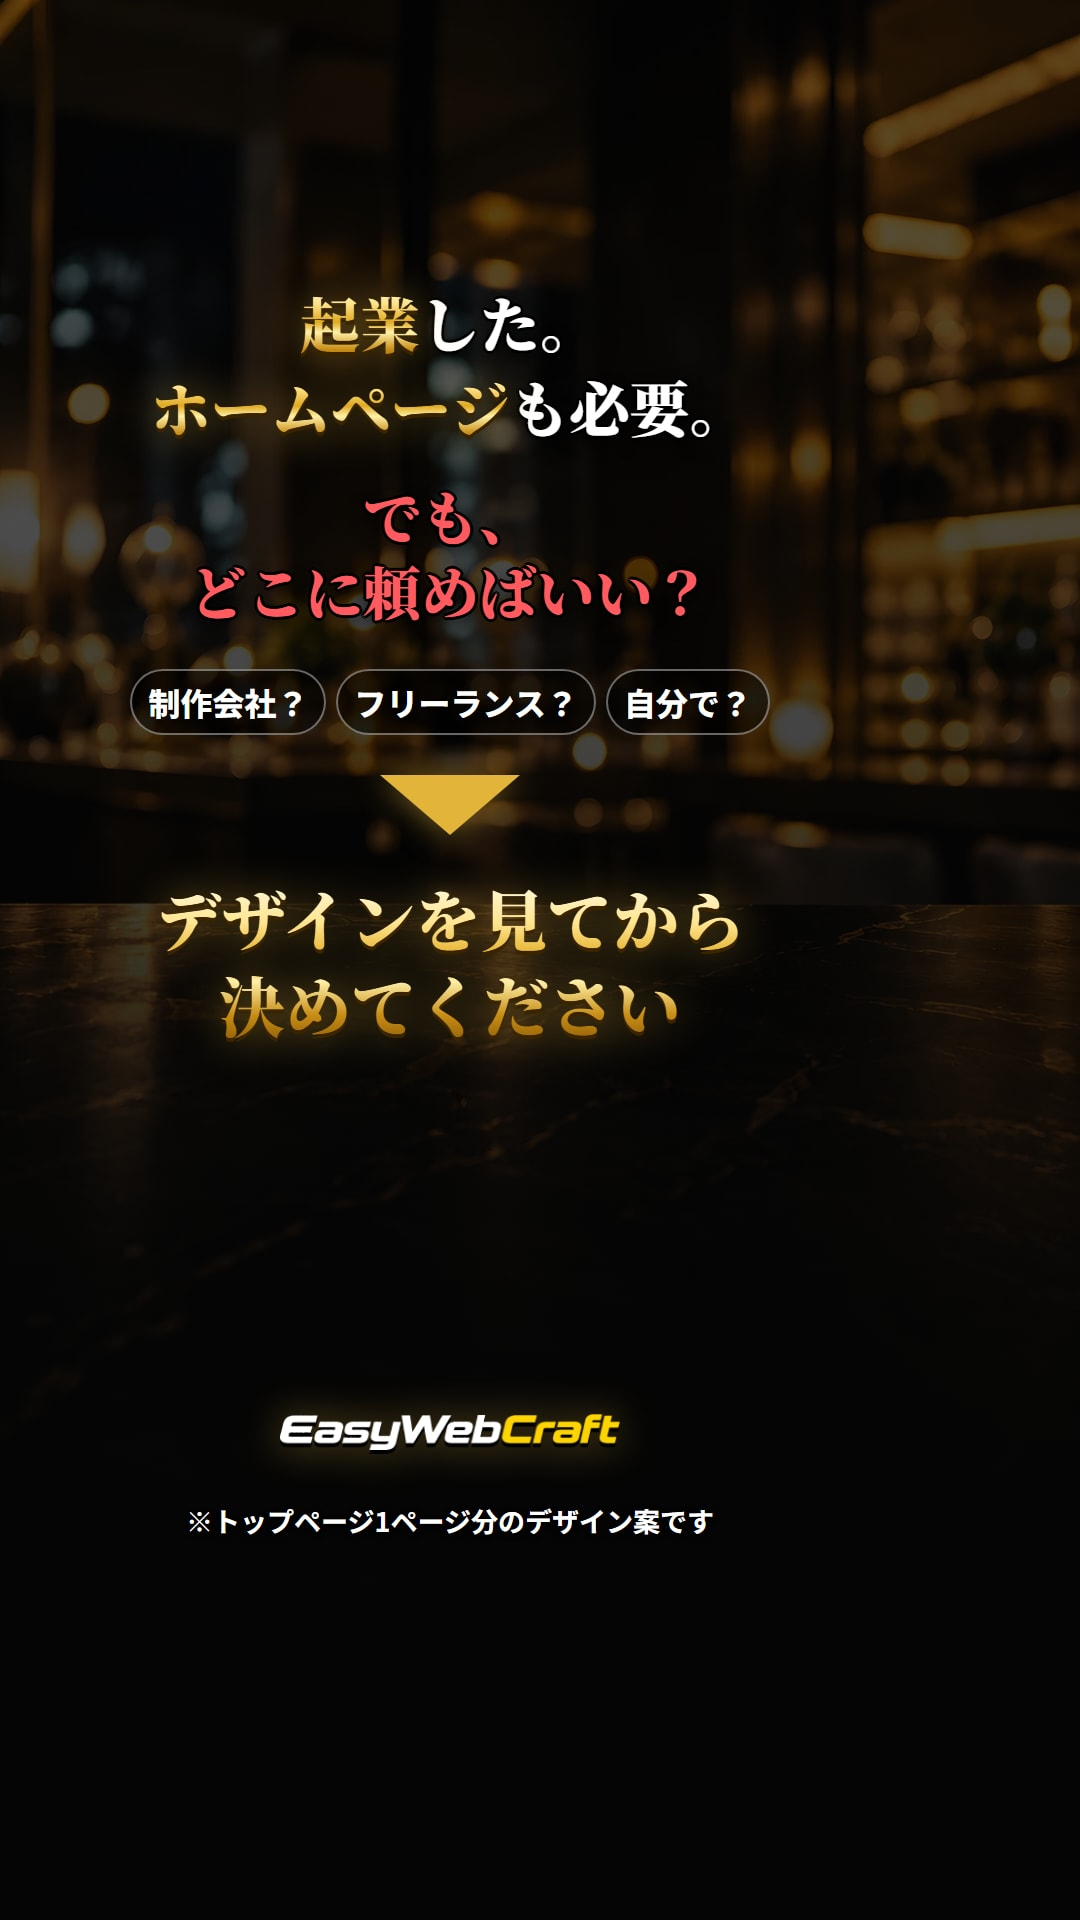
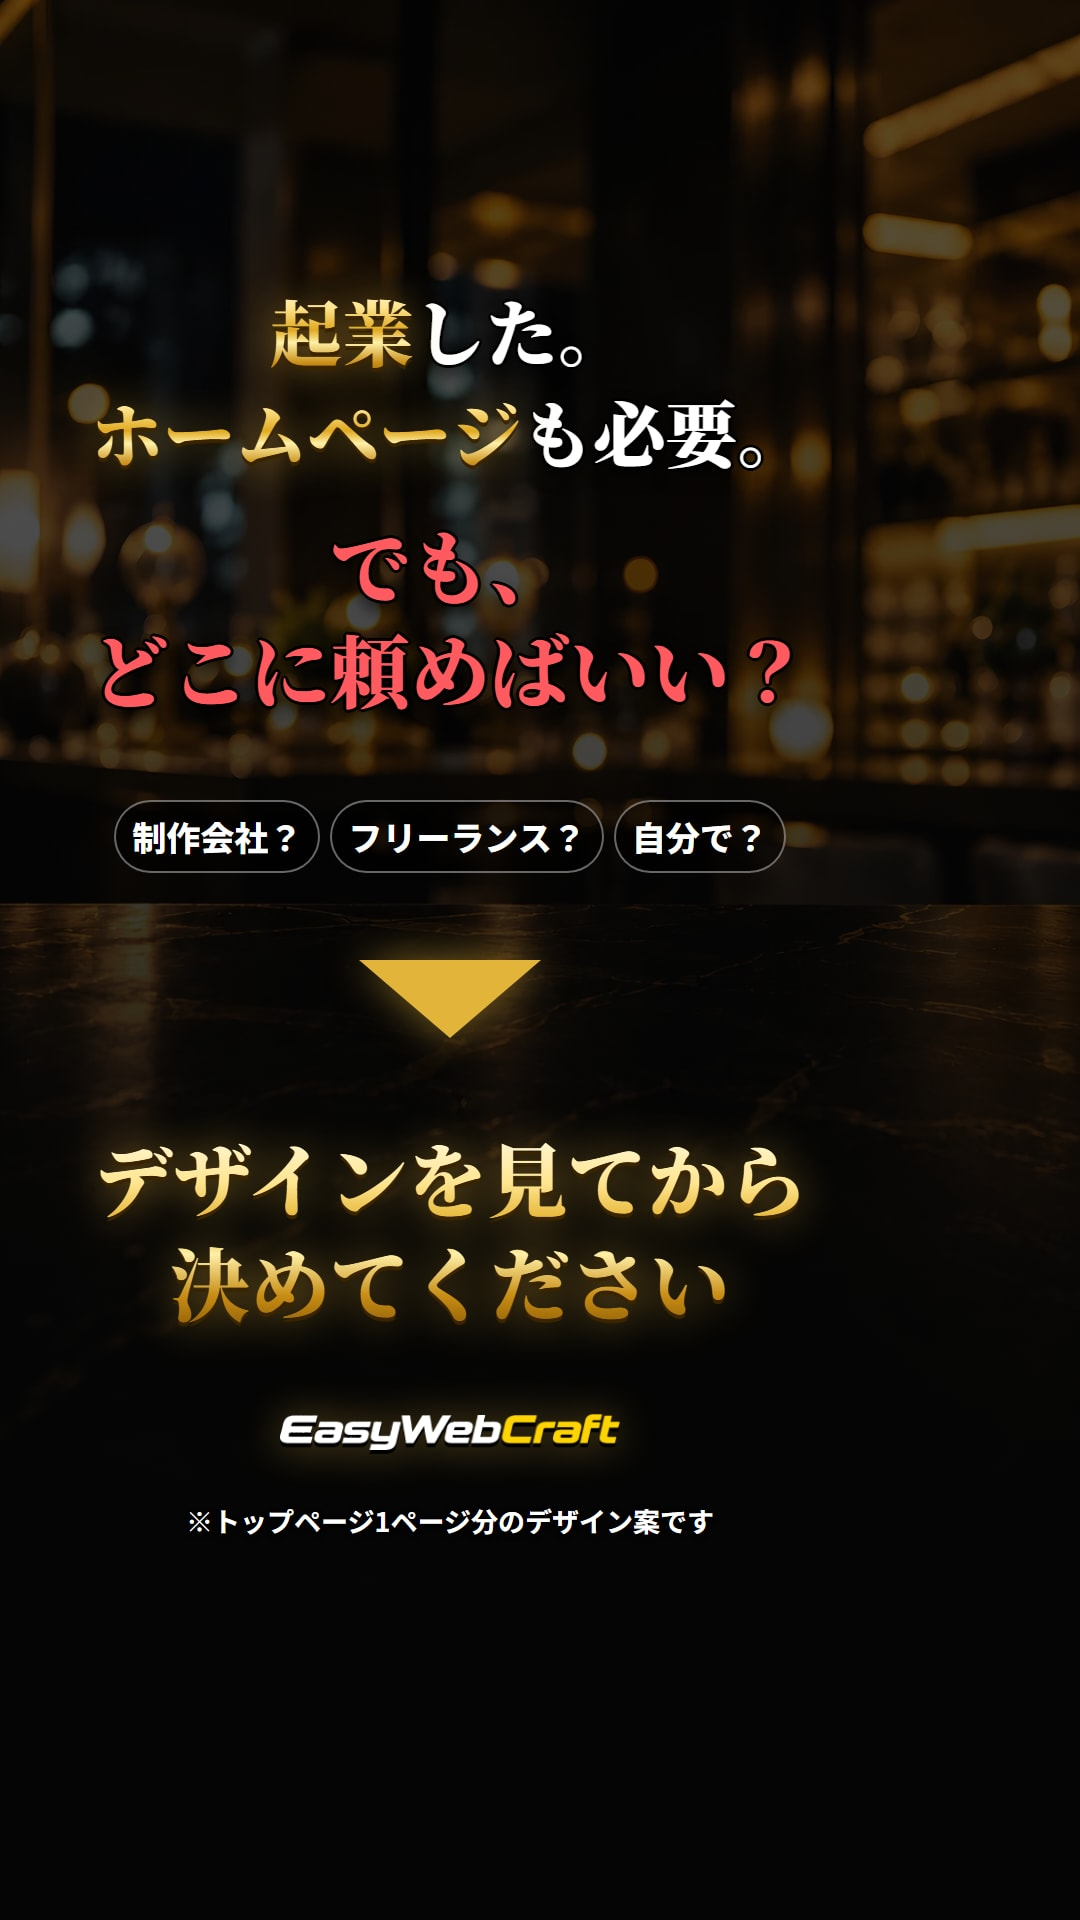
C3をB案（文字を大きくして縦に埋める）に
Claude-Session: https://claude.ai/code/session_01G65TiHfa1BUco43NvNDLJF

Changed region(s): [[0.0917, 0.1562, 0.7333, 0.5625], [0.0917, 0.5938, 0.7333, 0.6875]]

diff --git a/challenge/index.html b/challenge/index.html
@@ -47,7 +47,7 @@ code{background:var(--bg); padding:0 5px; border-radius:4px; font-size:.88em; wo
     <div class="card"><img src="jpg/c1.jpg?v=10" alt="起業したばかりの経営者様へ ホームページ制作 月額5,980円〜"><div class="no"><b>C1</b>起業直後×価格</div><span class="tgt">起業したばかり</span><span class="star">顔出し</span><p class="cap">起業したばかりの経営者様へ。ホームページ制作が制作費0円・月額5,980円〜（税別）。</p></div>
     <div class="card"><img src="jpg/c2.jpg?v=10" alt="こんなに安くて本当にちゃんとしたHPができるの？"><div class="no"><b>C2</b>安すぎて不安？</div><span class="tgt">価格に不安がある人</span><span class="star">主力候補</span><p class="cap">起業したばかりの方へ。こんなに安くて本当にちゃんとしたHPができるの？契約前に実物を見せます。HPデザイン案0円。</p></div>
     <div class="card"><img src="jpg/c2b.jpg?v=10" alt="月額5,980円〜 安すぎて、ちょっと不安？"><div class="no"><b>C2-B</b>価格を先に見せる版</div><span class="tgt">価格に不安がある人</span><span class="star">C2とA/Bテスト</span><p class="cap">起業したばかりの方へ。制作費0円・月額5,980円〜。安すぎて、ちょっと不安？だから契約前に実物を見せます。HPデザイン案0円。</p></div>
-    <div class="card"><img src="jpg/c3.jpg?v=10" alt="起業した。でも、どこに頼めばいい？"><div class="no"><b>C3</b>どこに頼めばいい？</div><span class="tgt">依頼先で迷っている人</span><span class="star">新規</span><p class="cap">起業した。ホームページも必要。でも、どこに頼めばいい？制作会社？フリーランス？自分で？デザインを見てから決めてください。</p></div>
+    <div class="card"><img src="jpg/c3.jpg?v=12" alt="起業した。でも、どこに頼めばいい？"><div class="no"><b>C3</b>どこに頼めばいい？</div><span class="tgt">依頼先で迷っている人</span><span class="star">新規</span><p class="cap">起業した。ホームページも必要。でも、どこに頼めばいい？制作会社？フリーランス？自分で？デザインを見てから決めてください。</p></div>
     <div class="card"><img src="jpg/c4.jpg?v=10" alt="事業は決まった。でも、ホームページは何から始めればいい？"><div class="no"><b>C4</b>何から始めれば？</div><span class="tgt">HPの知識がない人</span><span class="star">顔出し</span><p class="cap">事業は決まった。でも、ホームページは何から始めればいい？何も決まってなくてOK。</p></div>
     <div class="card"><img src="jpg/c5.jpg?v=11" alt="起業したばかり。やることだらけでHPまで手が回らない"><div class="no"><b>C5</b>手が回らない</div><span class="tgt">本業が忙しい人</span><span class="star">顔出し</span><p class="cap">起業したばかり。やることだらけでHPまで手が回らない。まとめてお任せください。</p></div>
     <div class="card"><img src="jpg/c6.jpg?v=10" alt="起業したばかりだから、HPに大金はかけられない"><div class="no"><b>C6</b>安心3点セット</div><span class="tgt">比較検討中の人（リターゲティング向き）</span><p class="cap">HPに大金はかけられない。初期費用0円・デザイン案0円・月額5,980円〜（税別）。</p></div>

diff --git a/challenge/ads.html b/challenge/ads.html
@@ -182,6 +182,15 @@ body{width:1080px; font-family:"Noto Sans JP",sans-serif; color:#fff; background
 #c5 .serif.outline .red{font-size:88px !important; line-height:1.15 !important; display:inline-block; margin-top:6px}
 #c5 .serif.gold{font-size:92px !important; line-height:1.2 !important; white-space:normal !important}
 #c5 .arrow{margin:4px 0}
+/* C3：B案（文字を大きくして縦に埋める）を採用 2026-09-30 */
+#c3 .in{top:200px !important}
+#c3 .serif.outline{font-size:72px !important; line-height:1.4 !important}
+#c3 .serif.red{font-size:80px !important; line-height:1.3 !important}
+#c3 .chips span{font-size:34px !important; padding:10px 16px !important}
+#c3 .serif.gold{font-size:80px !important; line-height:1.3 !important}
+#c3 .arrow{transform:scale(1.3); margin:16px 0}
+#c3 .g40{height:80px !important}
+#c3 .g20{height:40px !important}
 </style>
 </head>
 <body>

diff --git a/challenge/tiktok-view.html b/challenge/tiktok-view.html
@@ -98,7 +98,7 @@ figcaption b{display:inline-block; background:#e3b43a; color:#1a1200; border-rad
 </figure>
 <figure class="ph">
   <div class="scr">
-    <img class="cr" src="jpg/c3.jpg?v=10" alt="どこに頼めばいい？">
+    <img class="cr" src="jpg/c3.jpg?v=12" alt="どこに頼めばいい？">
     <div class="top"><span>フォロー中</span><b>おすすめ</b><i>⌕</i></div>
     <div class="rail">
       <div class="av"><img src="img/logo-fv.webp" alt=""><em>＋</em></div>
